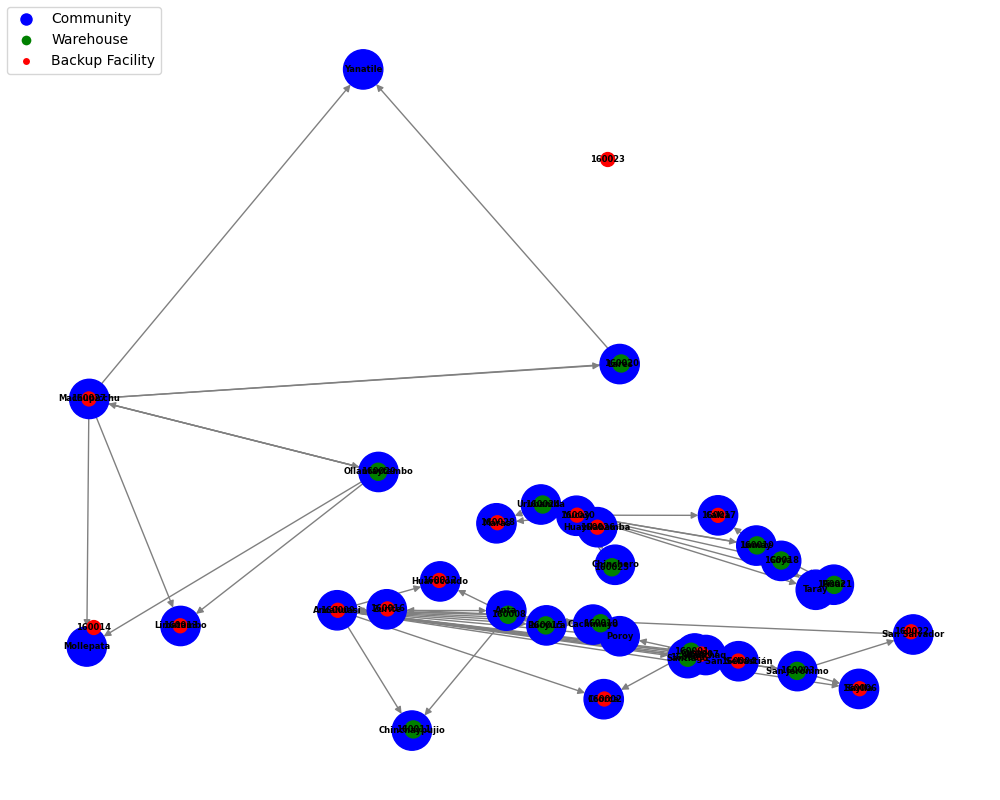
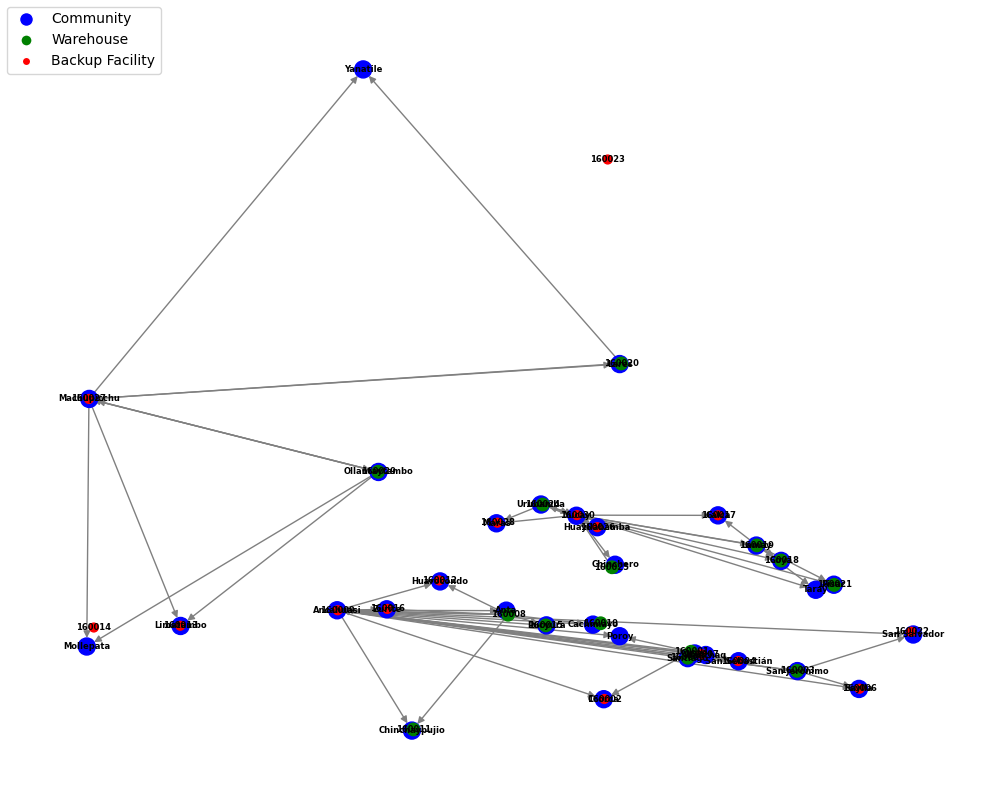
Changing Node sizes

diff --git a/main.py b/main.py
@@ -293,11 +293,11 @@ G = nx.DiGraph()
 # Add nodes for Communities, Warehouses, and Backup Facilities
 G = nx.DiGraph()
 for community in C:
-    G.add_node(community, label="Community", color='blue', size=800)
+    G.add_node(community, label="Community", color='blue', size=150)
 for warehouse in I:
-    G.add_node(warehouse, label="Warehouse", color='green', size=150)
+    G.add_node(warehouse, label="Warehouse", color='green', size=80)
 for backup in J:
-    G.add_node(backup, label="Backup Facility", color='red', size=100)
+    G.add_node(backup, label="Backup Facility", color='red', size=40)
 
 # Add edges for Community-to-Warehouse connections
 for (community, warehouse), connected in community_warehouse_matrix.items():
@@ -358,13 +358,13 @@ opened_backups = set(backup for (_, backup), connected in warehouse_backup_matri
 # Add nodes for Communities, filtering Main Warehouses and Backup Facilities
 G = nx.DiGraph()
 for community in C:
-    G.add_node(community, label="Community", color='blue', size=800)
+    G.add_node(community, label="Community", color='blue', size=100)
 for warehouse in I:
     if warehouse in opened_warehouses:  # Add only opened Main Warehouses
         G.add_node(warehouse, label="Warehouse", color='green', size=150)
 for backup in J:
     if backup in opened_backups:  # Add only opened Backup Facilities
-        G.add_node(backup, label="Backup Facility", color='red', size=100)
+        G.add_node(backup, label="Backup Facility", color='red', size=70)
 
 
 # Add edges for Community-to-Warehouse connections
@@ -426,7 +426,7 @@ G = nx.DiGraph()
 
 # Add Community nodes
 for community in C:
-    G.add_node(community, label="Community", color='blue', size=800)
+    G.add_node(community, label="Community", color='blue', size=100)
 
 # Add Warehouse nodes (Opened Main Warehouses)
 for warehouse in I:
@@ -436,7 +436,7 @@ for warehouse in I:
 # Add Backup Facility nodes (Opened Backup Facilities)
 for backup in J:
     if backup in opened_backups:  # Add only opened Backup Facilities
-        G.add_node(backup, label="Backup Facility", color='red', size=100)
+        G.add_node(backup, label="Backup Facility", color='red', size=70)
 
 # Add the Main Warehouse node (if not already present)
 main_warehouse_id = 160001
@@ -521,7 +521,7 @@ G = nx.DiGraph()
 
 # Add Community nodes
 for community in C:
-    G.add_node(community, label="Community", color='blue', size=800)
+    G.add_node(community, label="Community", color='blue', size=100)
 
 # Add Warehouse nodes (Opened Main Warehouses)
 for warehouse in I:
